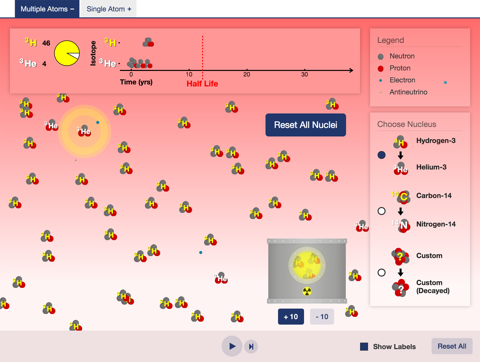
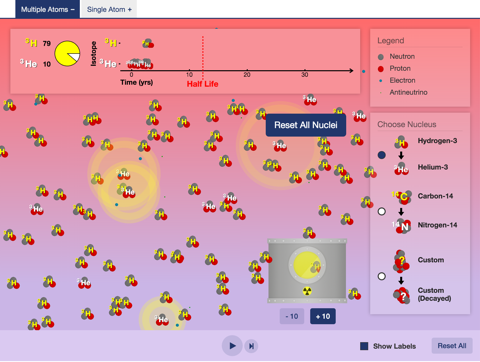
Changed background gradient and updated the screenshots

diff --git a/nuclear-physics/src/js/views/nucleus-decay-chart.js b/nuclear-physics/src/js/views/nucleus-decay-chart.js
@@ -58,7 +58,7 @@ define(function(require) {
                 paddingRight: 15,
                 paddingTop: 15,
                 padding: 15,
-                bgColor: '#FF9797',
+                bgColor: '#F89198',
                 bgAlpha: 1,
 
                 xAxisLabelText: 'Time (yrs)',

diff --git a/beta-decay/src/styles/scene.less b/beta-decay/src/styles/scene.less
@@ -6,7 +6,7 @@
     width: 100%;
     height: @scene-height;
 
-    #gradient.vertical(#FF6A6A; #FFF4F4; 0%; 85%);
+    #gradient.vertical(#FF6A6A; #CAB5E6; 0%; 85%);
 
     @media screen and (max-height: @short-window) {
         height: @short-scene-height;

diff --git a/beta-decay/src/styles/variables.less b/beta-decay/src/styles/variables.less
@@ -3,7 +3,7 @@
 @import "../../../nuclear-physics/src/styles/variables.less";
 
 @panel-margin: 20px;
-@panel-bg: #EFE1E1;
+@panel-bg: #DAC9F1;
 @panel-width: 200px;
 @btn-bg: fadeout(@link-color, 86%);
 @btn-fg: @link-color;
